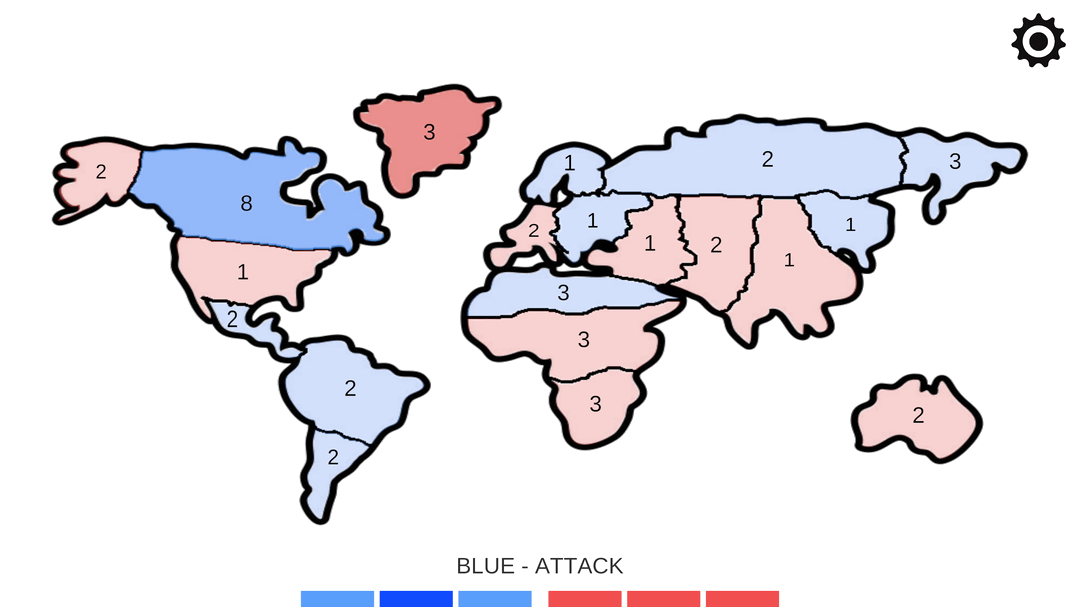
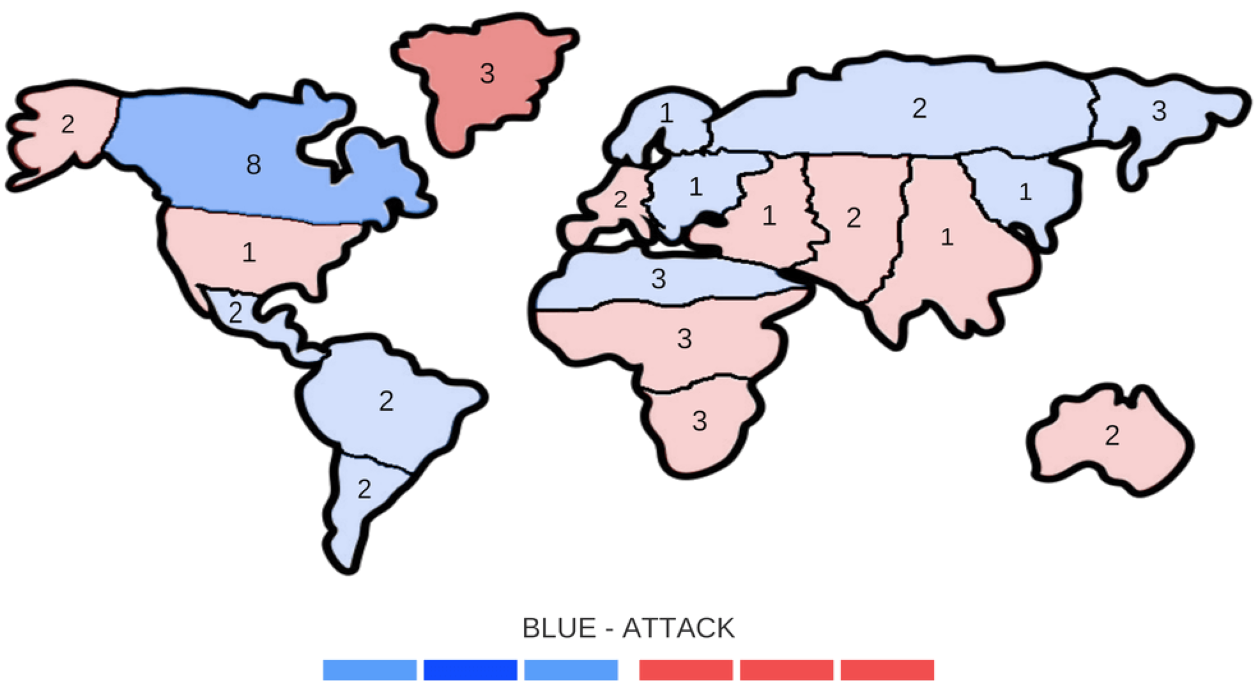
Imagery and text update

diff --git a/index.html b/index.html
@@ -4,7 +4,7 @@
 <head>
     <meta charset="UTF-8">
     <meta name="viewport" content="width=device-width, initial-scale=1.0">
-    <title>Document</title>
+    <title>Sly Cash | Game Design Portfolio</title>
     <link rel="stylesheet" href="https://fonts.googleapis.com/css2?family=Montserrat:wght@700&display=swap">
     <link rel="stylesheet" href="index.css">
 </head>
@@ -21,54 +21,68 @@
     <!-- // Main area is a grid -->
     <main>
         <!-- --ratio is the card image's height / width, used to push it to the bottom right -->
-        <div class="grid-item" style="--ratio: 0.563">
+        <div class="grid-item" style="--ratio: 0.542">
             <!-- Every item has an image that is wrapped with text, and a title -->
             <h3>Galactic Conquest | Unity | Computer Networking
             </h3>
             <!-- shape-outside (in spec.css) wraps the text around the non-transparent pixels of the image -->
-            <img class="wrap-shape" src="src/GalacticConquest.png" style="--shape: url(src/GalacticConquest.png)" alt="War map of Galactic Conquest">
+            <a href="/GalacticConquest.html"><img class="wrap-shape" style="--shape: url(src/GalacticConquest.png)" src="src/GalacticConquest.png" alt="War map of Galactic Conquest"></a>
             <p>
-                I created a <i>Risk</i>-like conquest map and game mechanics that then dive into a third person, 3D, unique fighter jet dog-fight, where your gameplay decides the outcome of the battle. The best part: it's fully host-client networked using the package <i>Mirror</i> and releasing on Steam!
+                <!-- I created a <i>Risk</i>-like conquest map and game mechanics that then dive into a third person, 3D, unique fighter jet dog-fight, where your gameplay decides the outcome of the battle. The best part: it's fully host-client networked using the package <i>Mirror</i> and releasing on Steam! -->
+                <i>Risk</i>-like conquest map and game mechanics! Battles dive into a 3D, Sci-fi fighter jet dog-fight. Fully host-client networked using the package <i>Mirror</i> and releasing on Steam!
             </p>
             <p>
-                This long project left me with a new understanding for the preproduction importance of having a solid plan and scope. While some of my design ideas to have a <i>FPS-Risk</i> style game were sound, the plan wasn't fully formed.
+                I learned the preproduction importance of having a solid plan and scope, even when the main ideas are present.
             </p>
             <a href = "/GalacticConquest.html">View More</a>
         </div>
-        <div class="grid-item" style="--ratio: 0.855">
+        <div class="grid-item" style="--ratio: 0.908">
             <!-- Every item has an image that is wrapped with text, and a title -->
             <h3>Revolvers | Unity | Current Project | Humanoid Animation
             </h3>
-            <img class="wrap-shape" src="src/Revolvers.jpg" style="--shape: url(src/Revolvers.jpg)" alt="Revolvers project image">
+            <a href="/Revolvers.html"><img class="wrap-shape" style="--shape: url(src/Revolvers.jpg)" src="src/Revolvers.jpg" alt="Revolvers project image"></a>
             <p>
-                Now entering the early development of a co-op shooter, <i>Revolvers</i> has been planned out with two main pillars: Dual-Wield, and Weapon Flurishing. Players complete gun tricks, spins, and throws to improve aspects of their next shot, creating a motivation behind showing off. As a result, this project envolves a heavy load of humanoid animation, which I have been developing through the use of industry motion capture.
+                <!-- Now entering the early development of a co-op shooter, <i>Revolvers</i> has been planned out with two main pillars: Dual-Wield, and Weapon Flurishing. Players complete gun tricks, spins, and throws to improve aspects of their next shot, creating a motivation behind showing off. As a result, this project envolves a heavy load of humanoid animation, which I have been developing through the use of industry motion capture. -->
+                Dual-wield co-op shooter with weapon flourishing!  Gun tricks!  Spins & throws!
+            </p>
+            <p>
+                Unity humanoid animation leveraging Vicon Shogun motion capture.
             </p>
             <a href = "/Revolvers.html">View More</a>
         </div>
         <div class="grid-item" style="--ratio: 0.941">
             <!-- Every item has an image that is wrapped with text, and a title -->
             <h3>Jack of All Builds | C#/Monogame | Lead Designer</h3>
-            <img class="wrap-shape" src="src/JackOfAllBuilds.jpg" style="--shape: url(src/JackOfAllBuilds.jpg)" alt="Jack of all Builds Boss/player gameplay">
+            <a href="/JackOfAllBuilds.html"><img class="wrap-shape" style="--shape: url(src/JackOfAllBuilds.jpg)" src="src/JackOfAllBuilds.jpg" alt="Jack of all Builds Boss/player gameplay"></a>
             <p>
-                For our DIY theme, I pitched the idea of a character and boss that players can modify and adapt to their playstyle and advantage. The team of four settled on my design and I became the design lead as we developed our project. We worked through collaborative design docs, git branches, merge conflicts, and more as we developed clean, standarized code.
+                Player and boss modification mechanics! Design lead for team of 4. 
+            </p>
+            <p>
+                Worked through collaborative design docs, git branches, merge conflicts, and more as we developed clean, standarized code.
             </p>
             <a href = "/JackOfAllBuilds.html">View More</a>
         </div>
         <div class="grid-item" style="--ratio: 0.711">
             <!-- Every item has an image that is wrapped with text, and a title -->
             <h3>Shivering Dragon | Unity | Sole Developer</h3>
-            <img class="wrap-shape" src="src/ShiveringDragon.png" style="--shape: url(src/ShiveringDragon.png)" alt="Shivering Dragon gameplay">
+            <a href="/ShiveringDragon.html"><img class="wrap-shape" style="--shape: url(src/ShiveringDragon.png)" src="src/ShiveringDragon.png" alt="Shivering Dragon gameplay"></a>
             <p>
-                For this project I created every asset and animation from the intro cut scene to the Dragon's walk cycle. I then wired it up to Unity using sprite sheets, particle systems, gameplay scripts, texture mapping, and more.
+                Animated from the intro cut scene to the Dragon's walk cycle. 
+            </p>
+            <p>
+                Unity developed using sprite sheets, particle systems, gameplay scripts, texture mapping, and more.
             </p>
             <a href = "/ShiveringDragon.html">View More</a>
         </div>
         <div class="grid-item" style="--ratio: 1.328">
             <!-- Every item has an image that is wrapped with text, and a title -->
             <h3>Built-In Bike Lock | Arduino/C | Software Developer</h3>
-            <img class="wrap-shape" src="src/BikeLock.jpg" style="--shape: url(src/BikeLock.jpg)" alt="Built-In Bike Lock project image">
+            <a href="/BuiltInBikeLock.html"><img class="wrap-shape" style="--shape: url(src/BikeLock.jpg)" src="src/BikeLock.jpg" alt="Built-In Bike Lock project image"></a>
             <p>
-                My team designed and manufactured a built-in bike lock, where users don't have to bring or remember anything but their bike and a barcode (ID or create your own). The scanner scans a barcode ID to start the mechanical locking and unlocking mechanisms. I led the software development portion, while my team developed a 1/5 size, fully functional model, and we then completed the full size prototype. 
+                Built-in bike lock! Just need a barcode (ID or digital)! Arduino software development. Barcode scanner and motors.
+            </p>
+            <p>
+                Software development, 1/5 size functional model, and a full size prototype!
             </p>
             <a href = "/BuiltInBikeLock.html">View More</a>
         </div>

diff --git a/index.css b/index.css
@@ -91,6 +91,15 @@ main {
     img {
         width: var(--img-width);
         height: auto;
+        border-radius: 12px;
+        display: block;
+    }
+
+    /* The image link wraps a floated image, which leaves the link itself an empty box,
+       so the focus outline goes on the image instead */
+    a:focus img {
+        outline: 3px solid darkblue;
+        outline-offset: 2px;
     }
 }
 
@@ -145,7 +154,8 @@ a:active {
 }
 
 /* Wrap text around the opaque part of the image, ignoring transparent pixels.
-   Each img sets its own --shape, e.g. style="--shape: url(src/car1.png)" */
+   Each img sets its own --shape, e.g. style="--shape: url(src/car1.png)".
+   It must stay on the img, not a link around it, or Chrome misplaces the shape */
 .wrap-shape {
     float: right;
     clear: right;

diff --git a/project.css b/project.css
@@ -39,6 +39,7 @@ main {
         width: 100%;
         height: auto;
         display: block;
+        border-radius: 12px;
     }
 
     /* Keeps its 16:9 shape and stays visible even before a video is added */
